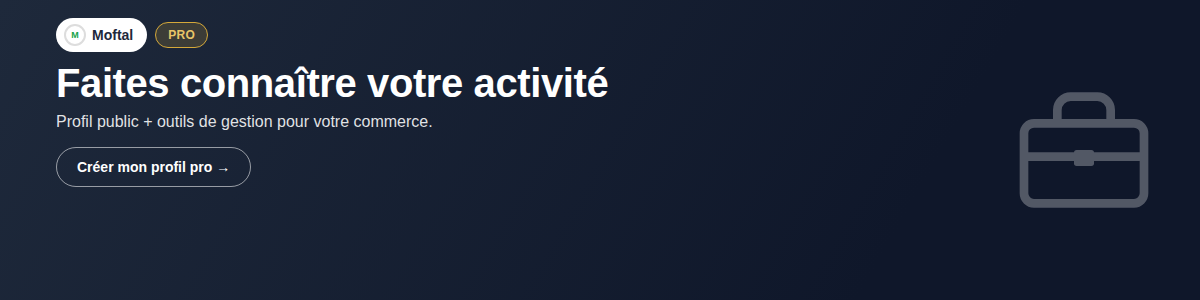
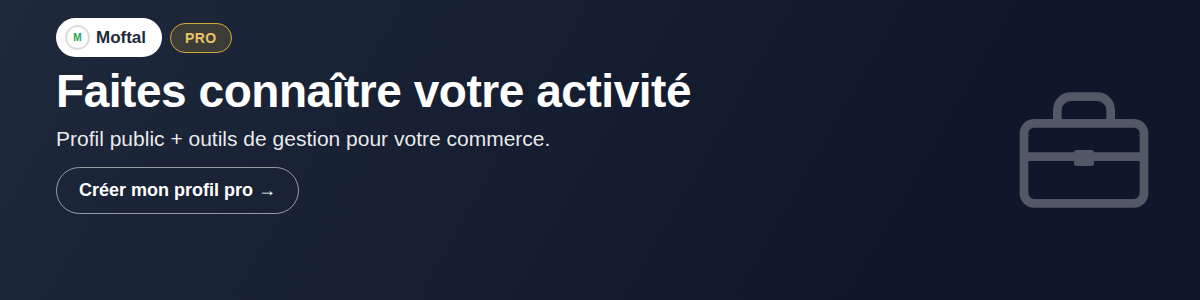
Augmente la taille du texte des bannières pour une meilleure lisibilité

diff --git a/backend/src/routes/publicites.js b/backend/src/routes/publicites.js
@@ -50,7 +50,7 @@ async function ensurePublicitesTable() {
 // "v=4" ci-dessous force les navigateurs/CDN à recharger l'image (au lieu de
 // garder l'ancienne en cache) — à incrémenter à chaque fois que le fichier
 // PNG d'une bannière maison est remplacé.
-const BANNER_VERSION = 4;
+const BANNER_VERSION = 5;
 const HOUSE_ADS = [
   { slug: 'info-moftal', image: `/banners/info-moftal.png?v=${BANNER_VERSION}`, lien: '/info' },
   { slug: 'professeur-ia', image: `/banners/professeur-ia.png?v=${BANNER_VERSION}`, lien: '/professeur-ia' },
